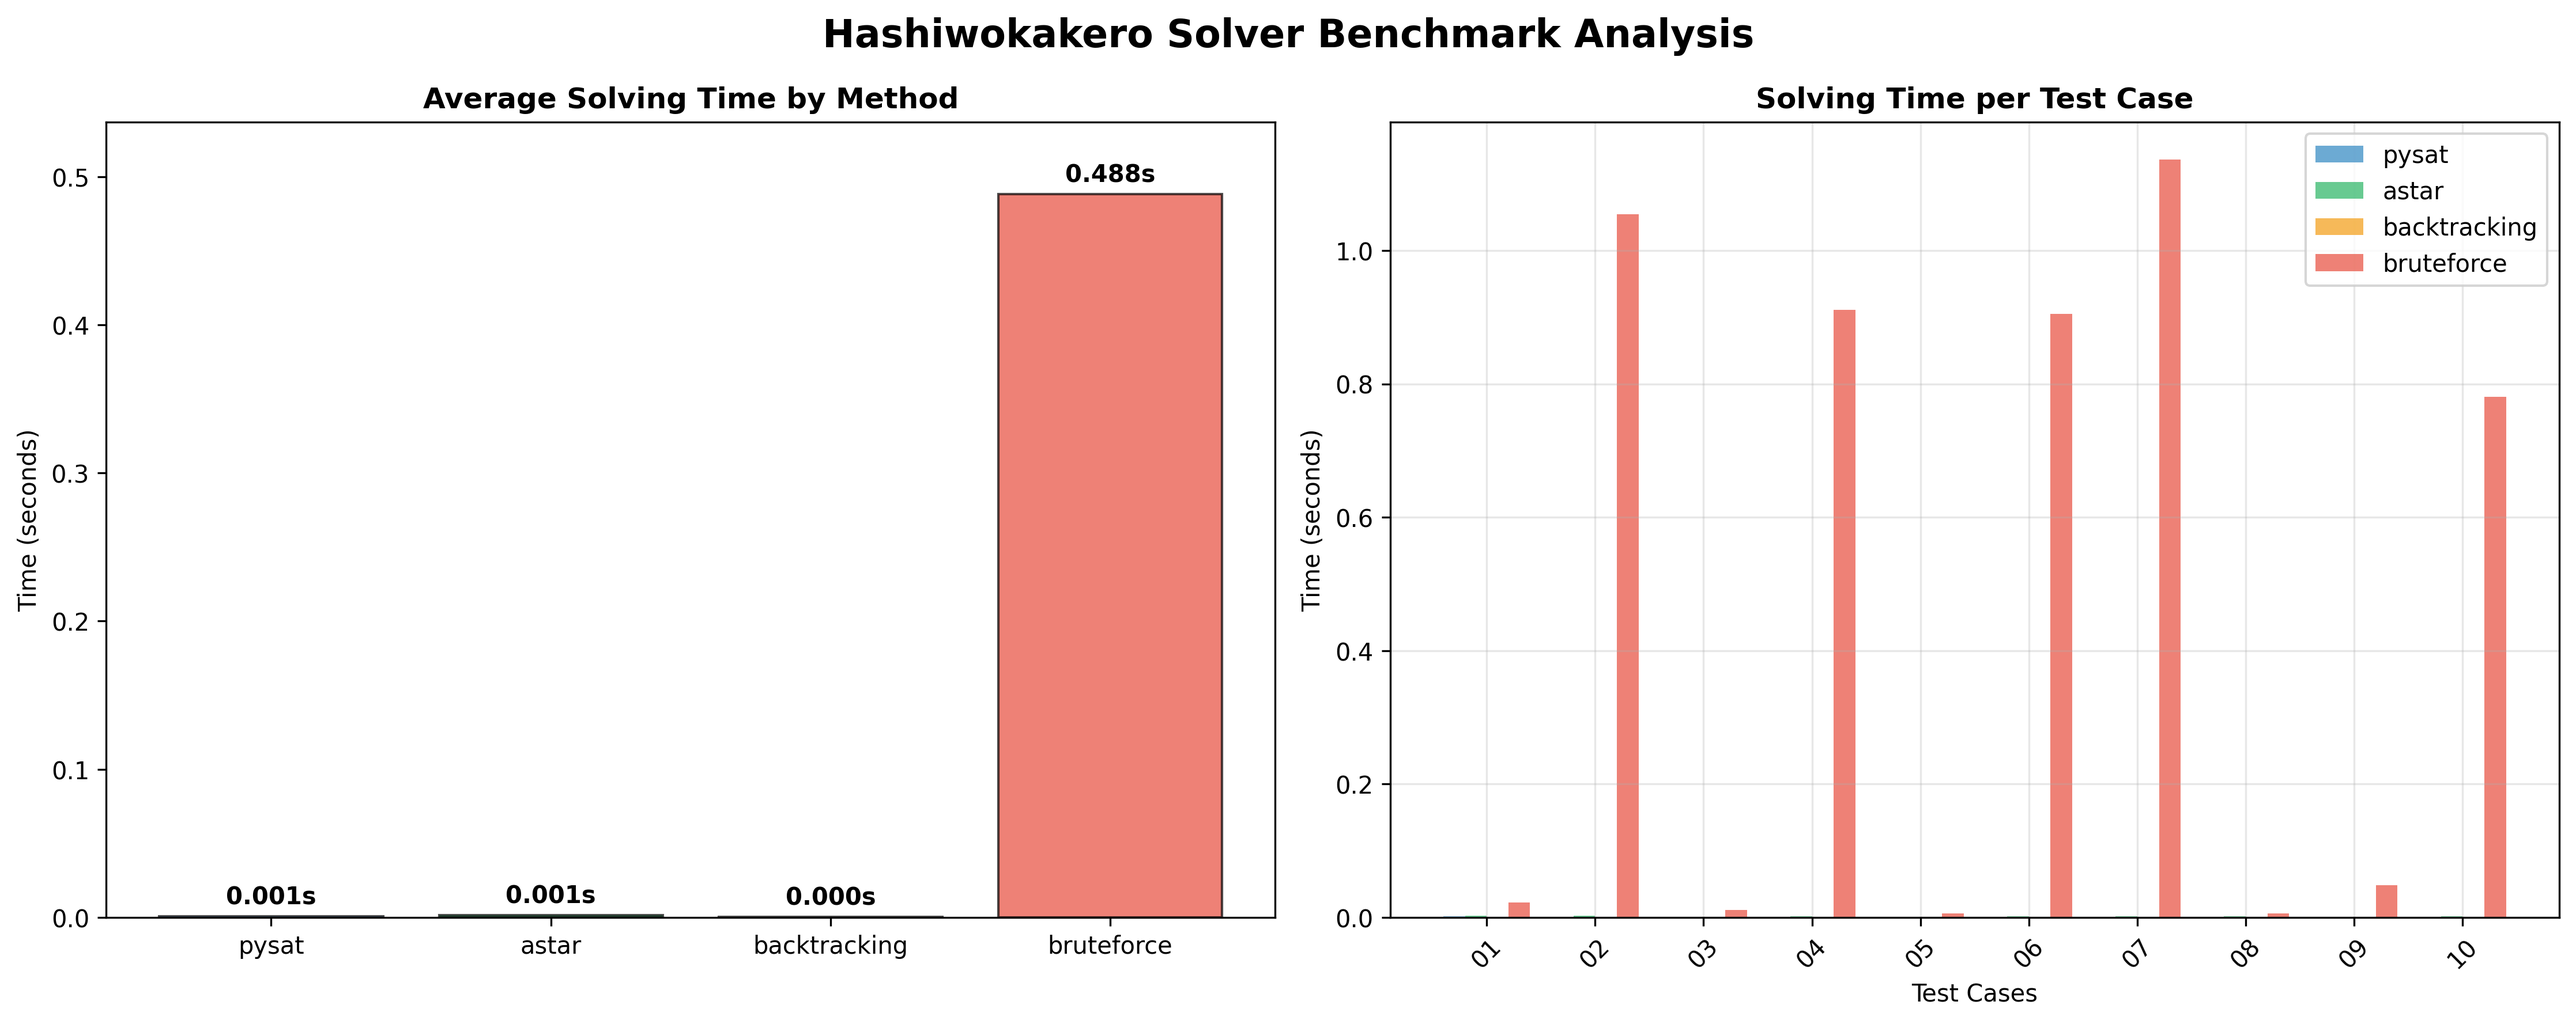
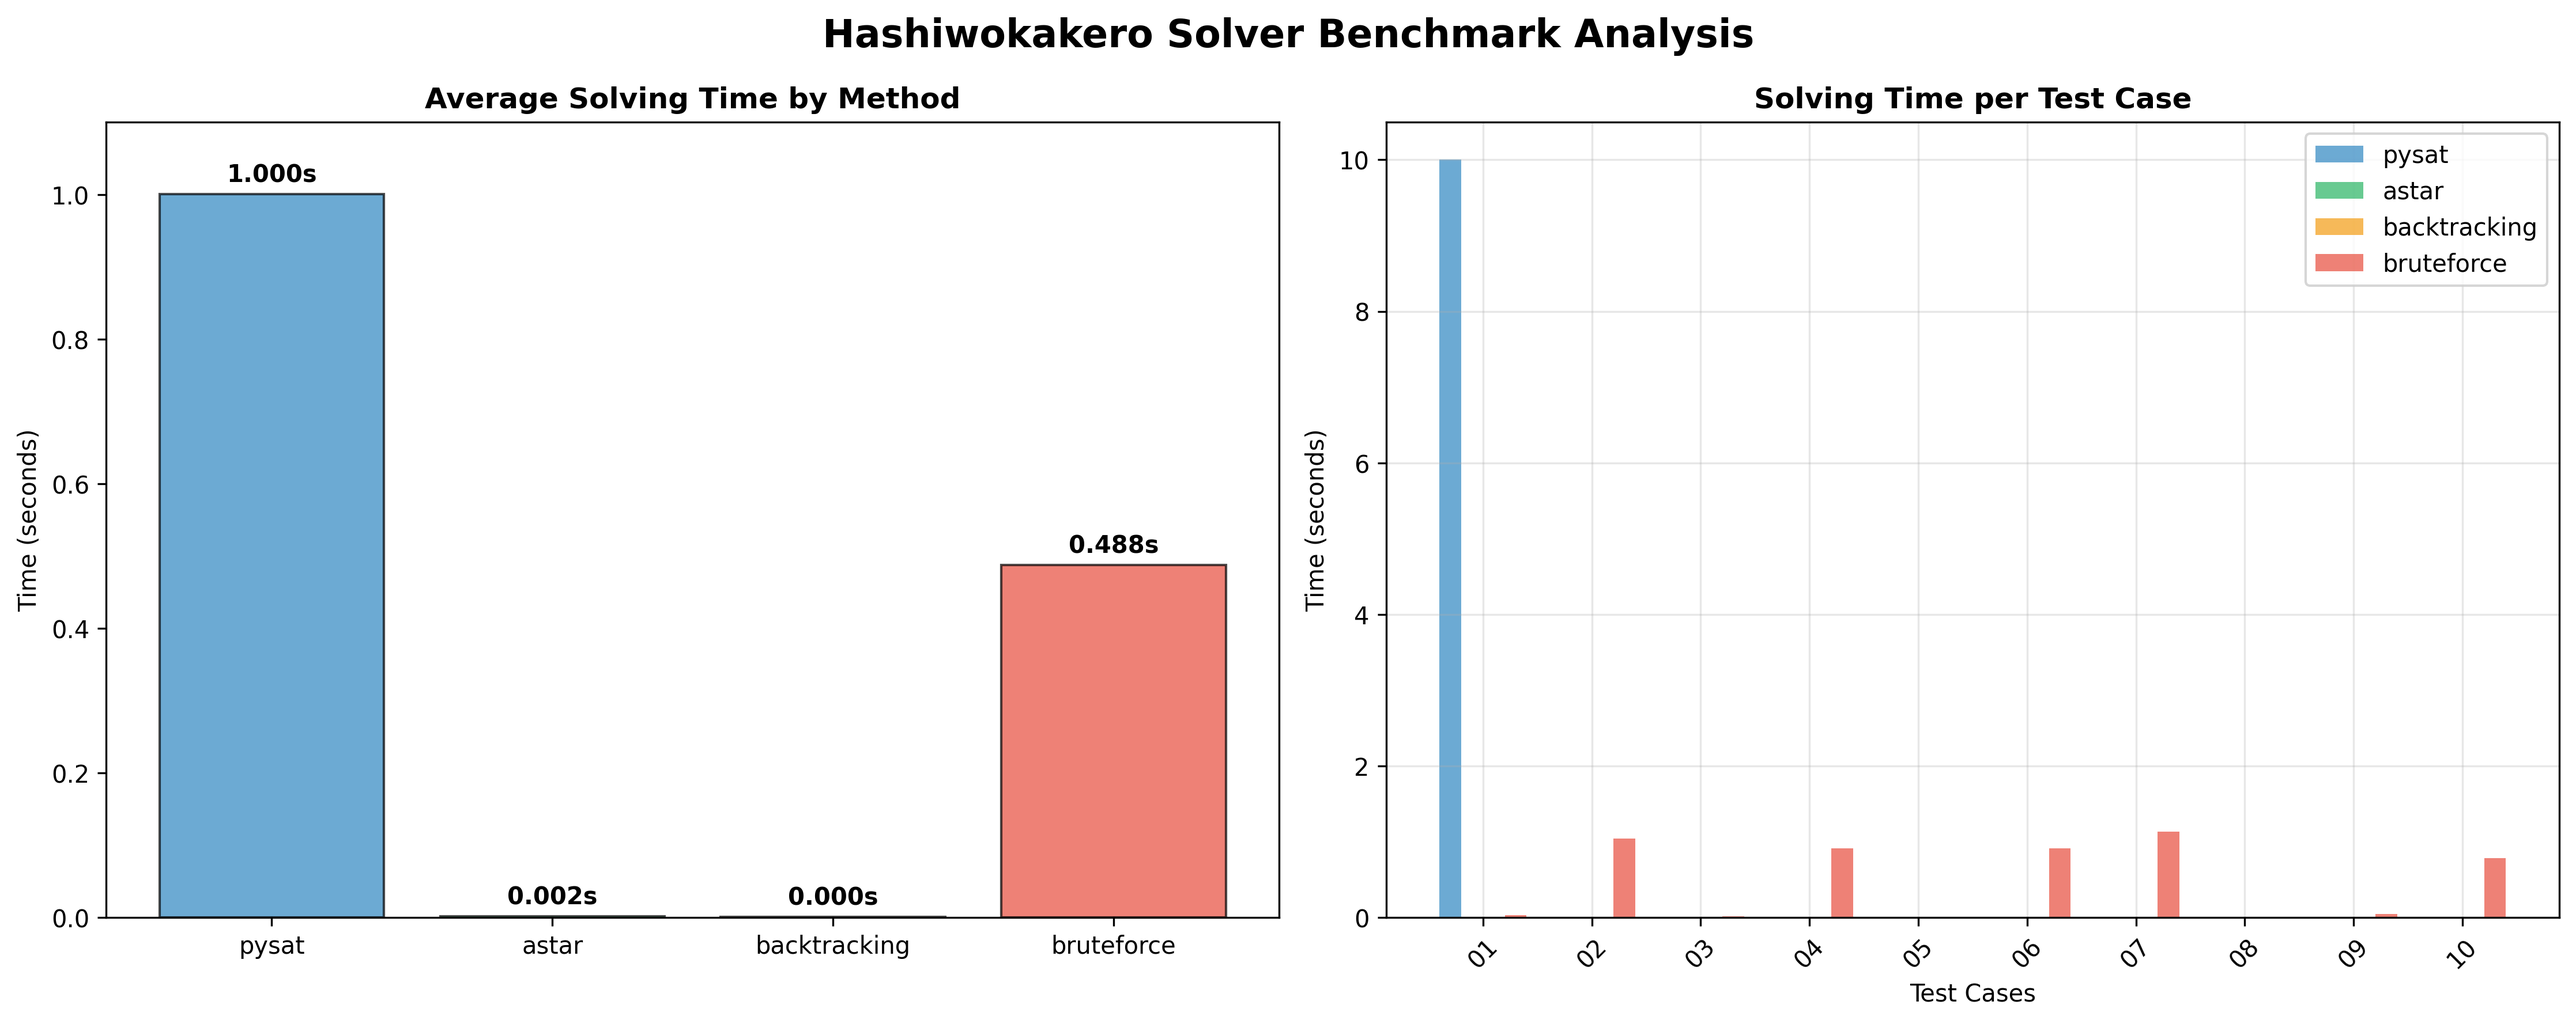
Fix minor bugs

diff --git a/pysat_solver.py b/pysat_solver.py
@@ -21,43 +21,27 @@ class PySatSolver:
                 
             start_time = time.time()
             with Glucose4(bootstrap_with=cnf) as solver:
-                # Triển khai timeout thủ công
                 while True:
                     if solver.solve(assumptions=[]):
                         model = solver.get_model()
-                        self._apply_solution(model, variables)
-                        if self.board.is_valid_solution():
-                            print(f"Solution found in {time.time()-start_time:.2f}s")
-                            return True
-                        break
-                    
+                        solved_board = self.board.copy()
+                        solved_board.bridges = []
+                        assignments = {abs(var): var > 0 for var in model}
+                        for (i, j, c), var in sorted(variables.items(), key=lambda x: (-x[0][2], x[0][0], x[0][1])):
+                            if assignments.get(var, False):
+                                island1 = solved_board.islands[i]
+                                island2 = solved_board.islands[j]
+                                start = (island1[0], island1[1])
+                                end = (island2[0], island2[1])
+                                btype = 'h' if start[0] == end[0] else 'v'
+                                for _ in range(c):
+                                    solved_board.add_bridge(start, end, btype)
+                        # Always return the board, regardless of validity
+                        print(f"SAT solution returned in {time.time()-start_time:.2f}s")
+                        return solved_board
                     if time.time() - start_time > self.timeout:
-                        #print("Timeout reached")
                         break
-            
-            #print("No valid solution found")
-            return False
-            
+            return None
         except Exception as e:
             print(f"Solver error: {str(e)}")
-            return False
-        
-    def _apply_solution(self, model, variables):
-        self.board.bridges = []  # Reset bridges before applying SAT solution
-        assignments = {abs(var): var > 0 for var in model}
-        for (i, j, c), var in sorted(variables.items(), key=lambda x: (-x[0][2], x[0][0], x[0][1])):
-            if assignments.get(var, False):
-                self._add_bridge(i, j, c)
-    
-    def _add_bridge(self, i, j, count):
-        island1 = self.board.islands[i]
-        island2 = self.board.islands[j]
-        start = (island1[0], island1[1])
-        end = (island2[0], island2[1])
-        btype = 'h' if start[0] == end[0] else 'v'
-        
-        for _ in range(count):
-            if not self.board.add_bridge(start, end, btype):
-                print(f"Failed to add bridge {count}x between {start} and {end}")
-                return False
-        return True
+            return None

diff --git a/main.py b/main.py
@@ -32,8 +32,7 @@ def solve_with_method(board, method):
     
     if method == 'pysat':
         solver = PySatSolver(board)
-        solved = solver.solve()
-        solution = board if solved else None
+        solution = solver.solve()
     elif method == 'astar':
         solver = AStarSolver(board)
         solution = solver.solve()
